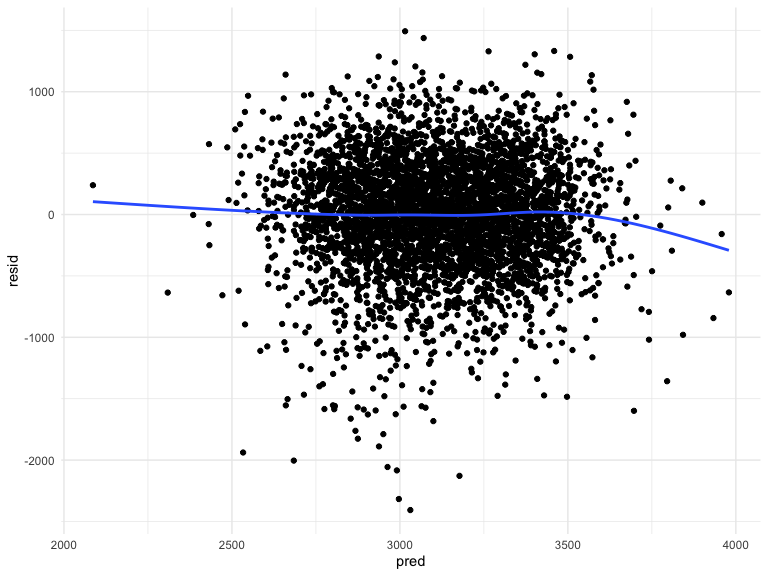
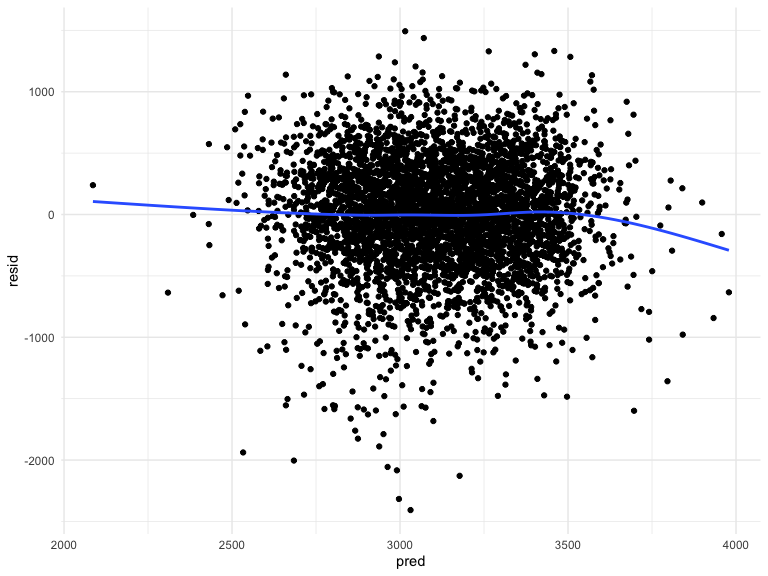
Finished problem 2. Updated problem 1.

diff --git a/p8105_hw6_mp3745.md b/p8105_hw6_mp3745.md
@@ -63,7 +63,7 @@ skimr::skim(bw_df)
     ##  n obs: 4342 
     ##  n variables: 20 
     ## 
-    ## ── Variable type:factor ────────────────────────────────────────────────────────────────────────────────────────────────────────────────────────────
+    ## ── Variable type:factor ───────────────────────────────────────────────────────────────────────────────────────────────────────────────────────
     ##  variable missing complete    n n_unique
     ##   babysex       0     4342 4342        2
     ##     frace       0     4342 4342        5
@@ -75,7 +75,7 @@ skimr::skim(bw_df)
     ##                abs: 4327, pre: 15, NA: 0   FALSE
     ##  Whi: 2147, Bla: 1909, Pue: 243, Asi: 43   FALSE
     ## 
-    ## ── Variable type:numeric ───────────────────────────────────────────────────────────────────────────────────────────────────────────────────────────
+    ## ── Variable type:numeric ──────────────────────────────────────────────────────────────────────────────────────────────────────────────────────
     ##  variable missing complete    n      mean     sd     p0     p25     p50
     ##     bhead       0     4342 4342   33.65     1.62  21      33      34   
     ##   blength       0     4342 4342   49.75     2.72  20      48      50   
@@ -111,15 +111,17 @@ skimr::skim(bw_df)
     ##     5      60   ▇▁▁▁▁▁▁▁
     ##    28      89   ▁▁▁▇▇▁▁▁
 
-It looks like there are no missing values.
+It looks like there are no missing values and our outcome, `bwt` is
+approximately normally distributed.
 
 The model I want to explore is looking at information about the mother
-(`fincome`, `menarche`, `mheight`, `momage`, `mrace`, `parity`,
-`pnumlbw`, `pnumsga`, `smoken`,
-`wtgain`).
+(`fincome`, `menarche`, `mheight`, `momage`, `mrace`, `smoken`,
+`wtgain`). `parity`, `pnumlbw`, `pnumsga` not included since almost all
+values are
+0.
 
 ``` r
-fit_mom = lm(bwt ~ fincome + menarche + mheight + momage + mrace + parity + pnumlbw + pnumsga + smoken + wtgain, data = bw_df) 
+fit_mom = lm(bwt ~ fincome + menarche + mheight + momage + mrace + smoken + wtgain, data = bw_df) 
 
 fit_mom %>% 
   broom::tidy() %>% 
@@ -128,17 +130,16 @@ fit_mom %>%
 
 | term              |  estimate | std.error | statistic | p.value |
 | :---------------- | --------: | --------: | --------: | ------: |
-| (Intercept)       |   942.094 |   191.342 |     4.924 |   0.000 |
-| fincome           |     0.346 |     0.300 |     1.152 |   0.249 |
-| menarche          |  \-11.818 |     4.809 |   \-2.457 |   0.014 |
-| mheight           |    31.056 |     2.724 |    11.402 |   0.000 |
-| momage            |     6.767 |     2.024 |     3.344 |   0.001 |
-| mraceBlack        | \-176.500 |    71.900 |   \-2.455 |   0.014 |
-| mracePuerto Rican |    14.400 |    76.606 |     0.188 |   0.851 |
-| mraceWhite        |   140.805 |    71.458 |     1.970 |   0.049 |
-| parity            |  \-40.644 |    67.685 |   \-0.600 |   0.548 |
-| smoken            |  \-11.798 |     0.971 |  \-12.147 |   0.000 |
-| wtgain            |    11.408 |     0.640 |    17.838 |   0.000 |
+| (Intercept)       |   942.521 |   191.327 |     4.926 |   0.000 |
+| fincome           |     0.353 |     0.300 |     1.175 |   0.240 |
+| menarche          |  \-11.845 |     4.809 |   \-2.463 |   0.014 |
+| mheight           |    31.085 |     2.723 |    11.416 |   0.000 |
+| momage            |     6.686 |     2.019 |     3.312 |   0.001 |
+| mraceBlack        | \-177.169 |    71.886 |   \-2.465 |   0.014 |
+| mracePuerto Rican |    14.005 |    76.598 |     0.183 |   0.855 |
+| mraceWhite        |   140.291 |    71.448 |     1.964 |   0.050 |
+| smoken            |  \-11.795 |     0.971 |  \-12.146 |   0.000 |
+| wtgain            |    11.401 |     0.639 |    17.831 |   0.000 |
 
 Model diagnostics
 
@@ -154,6 +155,7 @@ bw_df %>%
     ## `geom_smooth()` using method = 'gam' and formula 'y ~ s(x, bs = "cs")'
 
 <img src="p8105_hw6_mp3745_files/figure-gfm/unnamed-chunk-4-1.png" width="90%" />
+
 From the residuals vs fitted plot, it looks as though the residuals are
 mostly randomly distributed around 0, which is what we want to see. When
 higher values are predicted (around 4,000), it looks like residuals tend
@@ -168,7 +170,7 @@ cv_df =
     train = map(train, as_tibble),
     test = map(test, as_tibble)) %>% 
   mutate(
-    mom_mod  = map(train, ~lm(bwt ~ fincome + menarche + mheight + momage + mrace + parity + pnumlbw + pnumsga + smoken + wtgain, data = .x)),
+    mom_mod  = map(train, ~lm(bwt ~ fincome + menarche + mheight + momage + mrace + smoken + wtgain, data = .x)),
     main_mod  = map(train, ~lm(bwt ~ blength + gaweeks, data = .x)),
     int_mod  = map(train, ~lm(bwt ~ bhead * blength * babysex, data = .x))
   ) %>% 
@@ -192,5 +194,85 @@ cv_df %>%
 <img src="p8105_hw6_mp3745_files/figure-gfm/unnamed-chunk-5-1.png" width="90%" />
 
 Based on the plot of RMSE for each model, the interaction model has the
-lowest RMSE. Since the interaction model does the best job of making
-predictions on the testing data, that is the best model.
+lowest RMSE.
+
+## Problem 2
+
+Download data
+
+``` r
+weather_df = 
+  rnoaa::meteo_pull_monitors(
+    c("USW00094728"),
+    var = c("PRCP", "TMIN", "TMAX"), 
+    date_min = "2017-01-01",
+    date_max = "2017-12-31") %>%
+  mutate(
+    name = recode(id, USW00094728 = "CentralPark_NY"),
+    tmin = tmin / 10,
+    tmax = tmax / 10) %>%
+  select(name, id, everything())
+```
+
+Draw bootstrap samples to get estimates of `r_squared` and
+`log_beta0_beta1`
+
+``` r
+weather_boot_est =
+  weather_df %>% 
+  modelr::bootstrap(n = 5000) %>% 
+  mutate(models = map(strap, ~lm(tmax ~ tmin, data = .x) ),
+         estimates = map(models, broom::tidy),
+         evaluation = map(models, broom::glance)) %>% 
+  select(-strap, -models) %>% 
+  unnest(estimates, evaluation) %>% 
+  select(.id, term, estimate, r.squared) %>% 
+  pivot_wider(
+    names_from = "term",
+    values_from = "estimate"
+  ) %>% 
+  janitor::clean_names() %>% 
+  mutate(
+    log_beta0_beta1 = log(intercept * tmin)
+  ) %>% 
+  select(-intercept, -tmin)
+```
+
+Distributions of `r_squared` and `log_beta0_beta1`
+
+``` r
+r_squared_dist = 
+  weather_boot_est %>% 
+  ggplot(aes(x = r_squared)) +
+  geom_density()
+
+log_betas_dist = 
+  weather_boot_est %>% 
+  ggplot(aes(x = log_beta0_beta1)) +
+  geom_density()  
+
+r_squared_dist + log_betas_dist
+```
+
+<img src="p8105_hw6_mp3745_files/figure-gfm/unnamed-chunk-8-1.png" width="90%" />
+
+The distributions of `r_squared` and `log_beta0_beta1` look
+approximately normally distributed. The distribution of `r_squared`
+looks to be centered around 0.912, while the distribution of
+`log_beta0_beta1` is centered around 2.01.
+
+Get 95% confidence intervals for `r_squared` and `log_beta0_beta1`
+
+``` r
+weather_ci =
+  weather_boot_est %>% 
+  summarize(
+    r_squared_low = quantile(r_squared, 0.025),
+    r_squared_high = quantile(r_squared, 0.975),
+    log_beta0_beta1_low = quantile(log_beta0_beta1, 0.025),
+    log_beta0_beta1_high = quantile(log_beta0_beta1, 0.975), 
+  )
+```
+
+The 95% confidence interval for `r_squared` is (0.894, 0.927). The 95%
+confidence interval for `log_beta0_beta1` is (1.967, 2.059)
